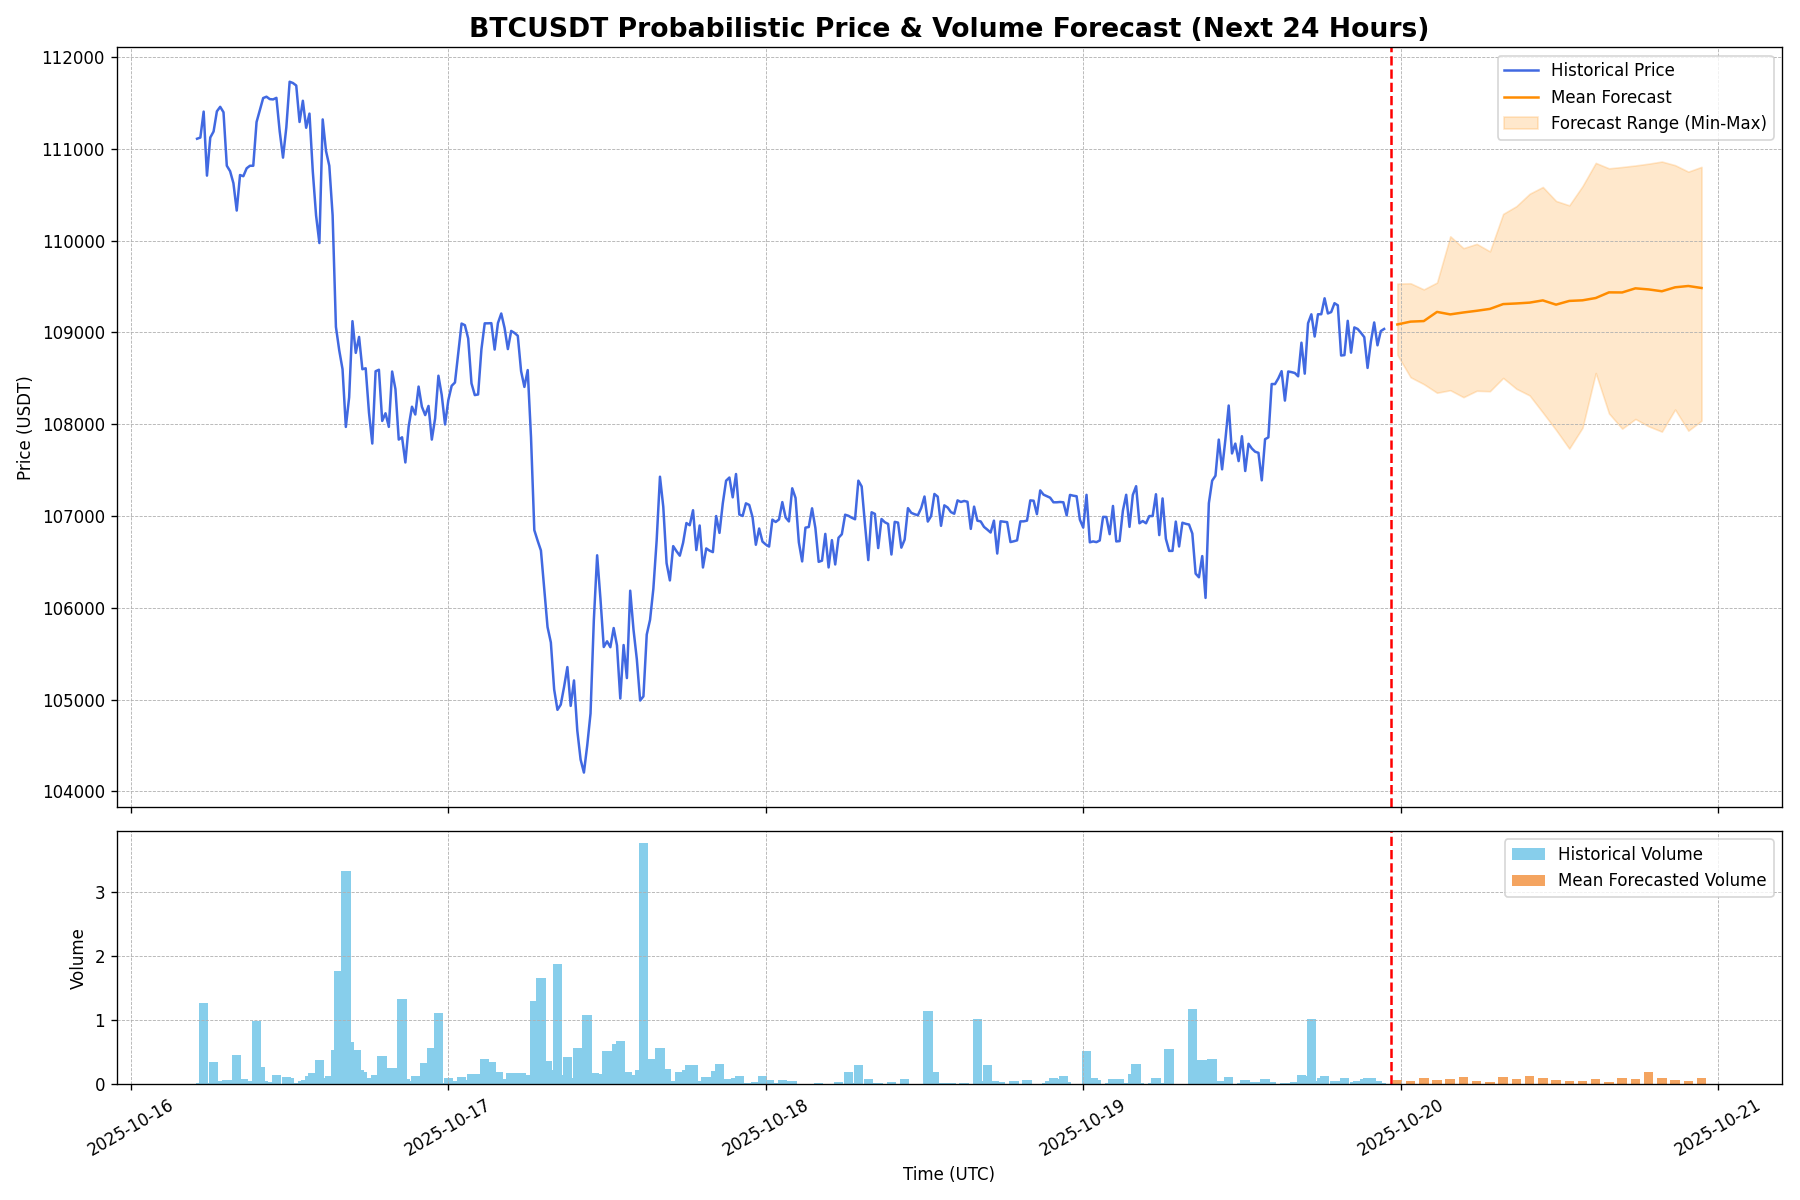
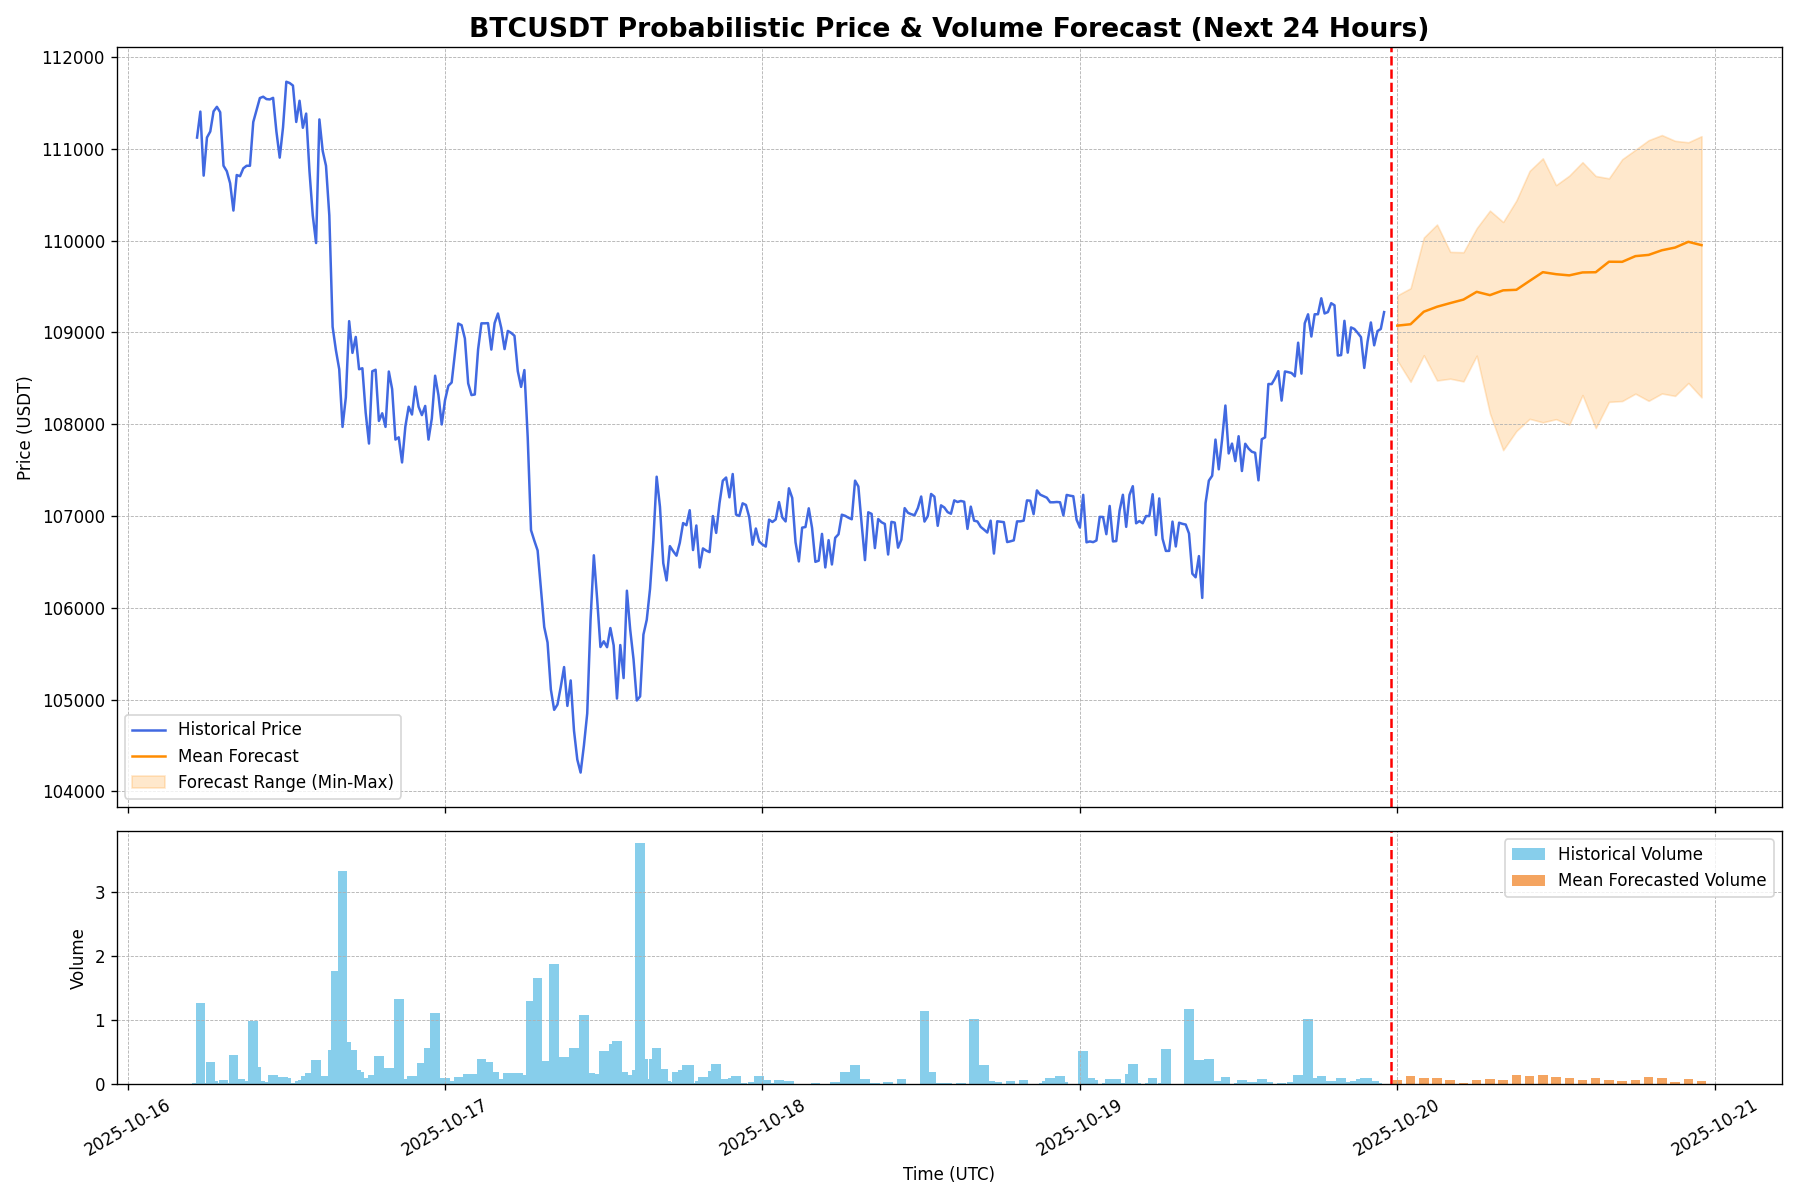
Auto-update forecast for 2025-10-19 23:21 UTC

diff --git a/index.html b/index.html
@@ -22,19 +22,19 @@
         <section id="live-dashboard">
             <h2>Live BTC/USDT Forecast Dashboard</h2>
             <div class="metadata">
-                <span>Last Updated (UTC): <strong id="update-time">2025-10-19 23:06:33</strong></span>
+                <span>Last Updated (UTC): <strong id="update-time">2025-10-19 23:21:33</strong></span>
                 <span>Data Source: Binance | Interval: 1-Hour</span>
             </div>
 
             <div class="metrics-container">
                 <div class="metric-card">
                     <h3>Upside Probability (Next 24h)</h3>
-                    <p class="metric-value" id="upside-prob">73.3%</p>
+                    <p class="metric-value" id="upside-prob">83.3%</p>
                     <div class="metric-desc">The model's confidence that the price in 24 hours will be higher than the last known price.</div>
                 </div>
                 <div class="metric-card">
                     <h3>Volatility Amplification (Next 24h)</h3>
-                    <p class="metric-value" id="vol-amp-prob">50.0%</p>
+                    <p class="metric-value" id="vol-amp-prob">23.3%</p>
                     <div class="metric-desc">The probability that predicted volatility over the next 24h will exceed recent historical volatility.</div>
                 </div>
             </div>
